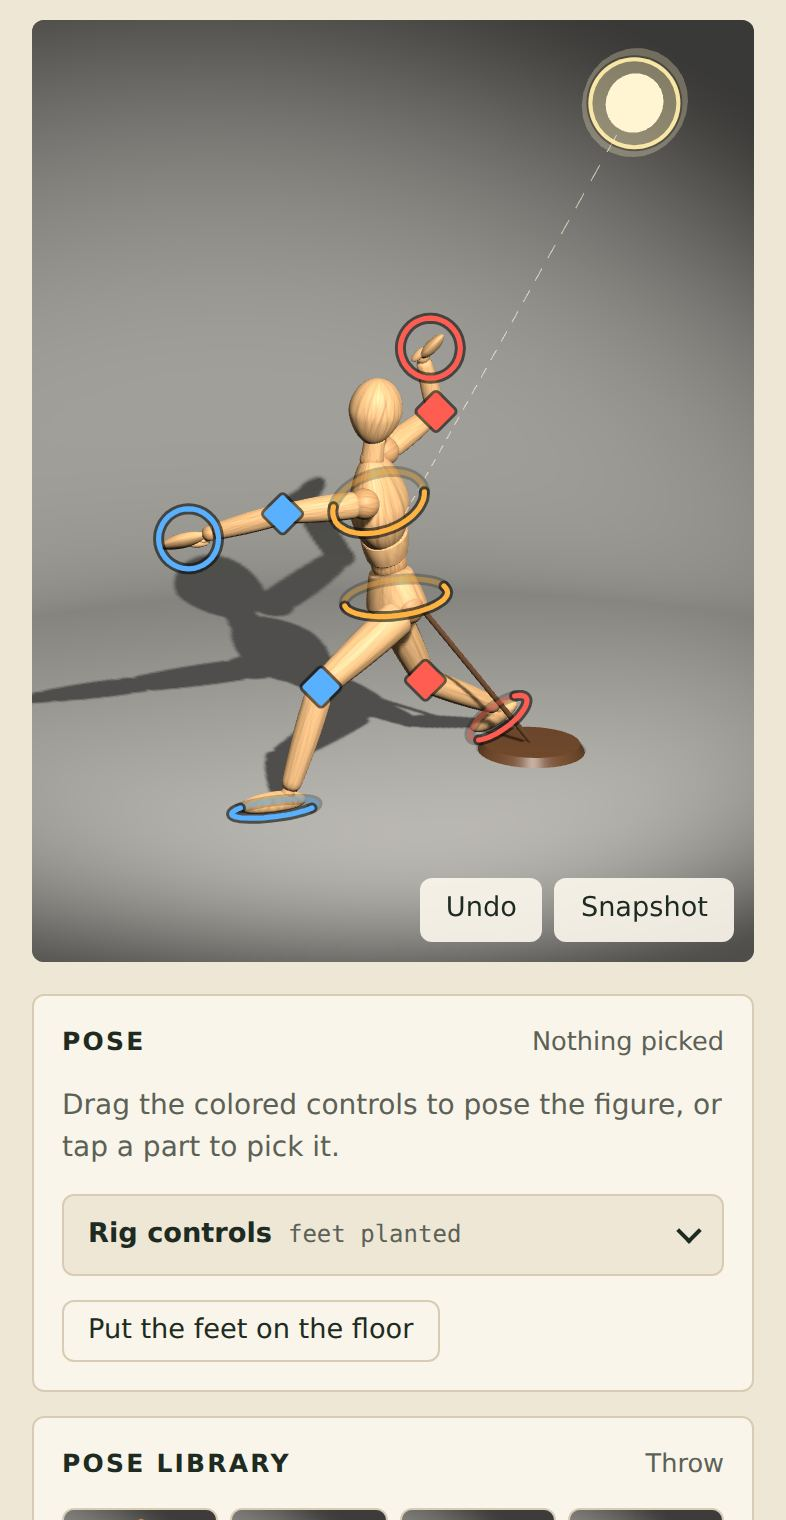
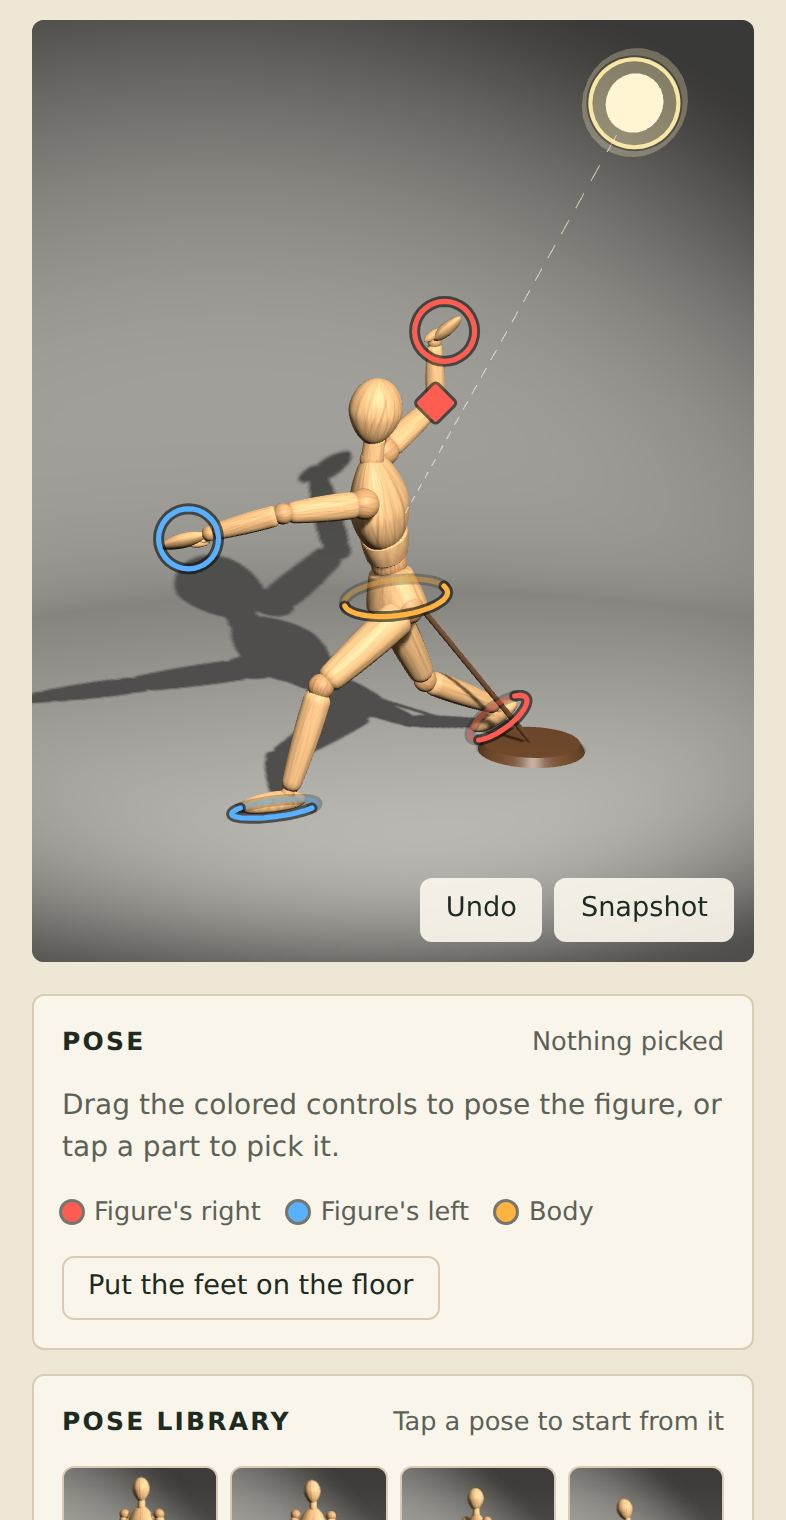
Pose and light: follow the app's Simple / Advanced switch
Simple shows only the hand, foot and hip controls; an elbow or knee
diamond, or the ring around the chest, appears once that arm, leg or the
body is touched and goes when the background is tapped. A picked part has
no arrows but can still be dragged, and the Rig controls, Light settings,
value splits and Show or hide menus are hidden. Advanced shows everything
as before. The app sends the mode to the frame when it loads and whenever
the switch changes; on its own page the tool has a switch of its own. The
guide, its pictures and the README describe both.

Claude-Session: https://claude.ai/code/session_01XVREo3r8Hxw4H8arPAzQN1

diff --git a/pose.html b/pose.html
@@ -147,6 +147,12 @@ dialog p { margin: 8px 0 12px; color: var(--muted); }
 .embed .top { display: none; }
 .embed .app { padding-block: 4px 16px; padding-inline: 0; }
 .embed .stage { height: var(--stage-h, 600px); }
+/* Simple shows only what a beginner needs; Advanced shows every control */
+.simple .adv-only, html:not(.simple) .simple-only { display: none !important; }
+.top-side { display: flex; align-items: center; gap: 10px; }
+.mode-switch { display: inline-flex; gap: 2px; padding: 3px; border: 1px solid var(--line); border-radius: 99px; background: var(--surface); }
+.mode-switch button { appearance: none; border: 0; border-radius: 99px; background: transparent; color: var(--muted); font: 600 0.8rem/1 var(--body); padding: 7px 12px; cursor: pointer; }
+.mode-switch button[aria-pressed="true"] { background: var(--ink); color: var(--ground); }
 </style>
 </head>
 <body>
@@ -157,13 +163,16 @@ dialog p { margin: 8px 0 12px; color: var(--muted); }
       <h1>Pose and Light</h1>
       <p>A wooden drawing figure and one lamp. Pose every limb, move the light, and watch where the light side, the shadow side and the cast shadow fall.</p>
     </div>
-    <span class="badge">Test version</span>
+    <div class="top-side">
+      <span class="mode-switch" role="group" aria-label="Simple or advanced controls"><button type="button" data-mode="simple" aria-pressed="true" title="Just the controls you need">Simple</button><button type="button" data-mode="advanced" aria-pressed="false" title="Every control">Advanced</button></span>
+      <span class="badge">Test version</span>
+    </div>
   </header>
 
   <div class="tool">
     <div class="stage" id="stage">
       <canvas id="view" aria-label="The wooden figure and the lamp. Drag a hand, a foot, the ring around the hips or the ring around the chest to pose the figure. Tap a part of the figure to pick it, then use the arrows to move it. Drag the lamp to move the light, or drag the background to walk around."></canvas>
-      <div class="hint" id="hint"><span>Drag a colored control to pose</span><span>Tap a part for arrows</span><span>Drag the lamp to move the light</span><span>Drag the background to walk around</span></div>
+      <div class="hint" id="hint"><span>Drag a colored control to pose</span><span class="adv-only">Tap a part for arrows</span><span class="simple-only">Tap a part to pick it</span><span>Drag the lamp to move the light</span><span>Drag the background to walk around</span></div>
       <div class="picked" id="picked" hidden></div>
       <svg class="rig" id="rig" aria-hidden="true"></svg>
       <div class="arrows" id="arrows"></div>
@@ -179,14 +188,14 @@ dialog p { margin: 8px 0 12px; color: var(--muted); }
       <section class="card" aria-labelledby="partTitle">
         <div class="card-head"><h2 id="partTitle">Pose</h2><span class="note" id="partName">Nothing picked</span></div>
         <p class="empty" id="partEmpty">Drag the colored controls to pose the figure, or tap a part to pick it.</p>
-        <p class="empty" id="partHow" hidden>Tap the yellow arrows to move it. Hold an arrow to keep it moving. You can also drag the part itself. Left and right are the figure's own.</p>
+        <p class="empty" id="partHow" hidden><span class="adv-only">Tap the yellow arrows to move it. Hold an arrow to keep it moving. You can also drag the part itself.</span><span class="simple-only">Drag it to move it. Advanced adds arrows that move it a little at a time.</span> Left and right are the figure's own.</p>
         <p class="empty" id="partDepth" hidden><b>◉</b> brings it toward you and <b>⊗</b> sends it away from you.</p>
         <div class="row" id="partButtons" hidden>
           <button type="button" class="btn" id="straighten">Straighten</button>
           <button type="button" class="btn" id="mirror">Copy to the other side</button>
         </div>
         <p class="legend"><span><i style="background:#ff5d52"></i>Figure's right</span><span><i style="background:#59b0ff"></i>Figure's left</span><span><i style="background:#ffb340"></i>Body</span></p>
-        <details class="more" id="rigMore">
+        <details class="more adv-only" id="rigMore">
           <summary>Rig controls <span class="sum-note" id="rigSum"></span></summary>
           <div class="more-body">
             <p class="lesson">Drag a hand's circle and the whole arm follows. The diamond at the elbow swings the elbow around while the hand stays put. The feet and the knees work the same way. Drag the ring around the hips to move the body: the legs bend and the feet stay put. The ring around the chest bends the body, and the arms and the head go with it.</p>
@@ -211,7 +220,7 @@ dialog p { margin: 8px 0 12px; color: var(--muted); }
         <div class="card-head"><h2 id="lightTitle">Light</h2><span class="note" id="lightName">Rembrandt</span></div>
         <div class="chips" id="lights"></div>
         <p class="lesson" id="lightLesson"></p>
-        <details class="more" id="lightMore">
+        <details class="more adv-only" id="lightMore">
           <summary>Light settings <span class="sum-note" id="lightSum"></span></summary>
           <div class="more-body">
             <div class="field"><div class="field-head"><label for="lAz">Around the figure</label><output id="lAzOut" for="lAz"></output></div><input type="range" id="lAz" min="-180" max="180" step="1"></div>
@@ -230,14 +239,14 @@ dialog p { margin: 8px 0 12px; color: var(--muted); }
           <input type="radio" name="look" id="lookGray" value="1"><label for="lookGray">Gray</label>
           <input type="radio" name="look" id="lookValues" value="2"><label for="lookValues">Dark, middle, light</label>
         </div>
-        <details class="more" id="splitFields" hidden>
+        <details class="more adv-only" id="splitFields" hidden>
           <summary>Where the values split <span class="sum-note" id="splitSum"></span></summary>
           <div class="more-body">
             <div class="field"><div class="field-head"><label for="t1">Dark / middle split</label><output id="t1Out" for="t1"></output></div><input type="range" id="t1" min="5" max="60" step="1" value="30"></div>
             <div class="field"><div class="field-head"><label for="t2">Middle / light split</label><output id="t2Out" for="t2"></output></div><input type="range" id="t2" min="30" max="95" step="1" value="58"></div>
           </div>
         </details>
-        <details class="more" id="showMore">
+        <details class="more adv-only" id="showMore">
           <summary>Show or hide <span class="sum-note" id="showSum"></span></summary>
           <div class="more-body">
             <label class="check" for="showStand"><input type="checkbox" id="showStand" checked> Show the stand</label>
@@ -309,6 +318,10 @@ dialog p { margin: 8px 0 12px; color: var(--muted); }
   // back (x), then out to the side (z), so a raised arm still twists about itself.
   const ORDER = 'ZXY';
   const clamp = (v, a, b) => Math.min(b, Math.max(a, v));
+  // Simple or Advanced (see "Simple and Advanced" near the end), and in Simple the arm, leg or body
+  // last touched, whose elbow or knee diamond or chest ring shows
+  let simple = true, active = null;
+  const groupOf = (n) => (n === 'root' || n === 'waist' || n === 'neck' ? 'body' : (/^(shoulder|elbow|wrist)/.test(n) ? 'arm' : 'leg') + n.slice(-1));
   const srgb = (hex) => new T.Color(hex).convertSRGBToLinear();
 
   // ---- Renderer, scene, camera ---------------------------------------------------------
@@ -1027,6 +1040,7 @@ dialog p { margin: 8px 0 12px; color: var(--muted); }
   let picked = null;
   function pick(name) {
     picked = name;
+    active = name ? groupOf(name) : null;
     outlines.forEach((o) => o.parent.remove(o));
     outlines = [];
     parts.forEach((m) => {
@@ -1106,7 +1120,7 @@ dialog p { margin: 8px 0 12px; color: var(--muted); }
   function buildArrows() {
     $('arrows').textContent = '';
     arrows = [];
-    if (!picked) return;
+    if (!picked || simple) return;
     const name = picked, spec = SPEC[name];
     spec.axes.forEach((ax) => [1, -1].forEach((dir) => {
       const a = { kind: 'axis', ax, dir, name };
@@ -1725,6 +1739,7 @@ dialog p { margin: 8px 0 12px; color: var(--muted); }
   const SVGNS = 'http://www.w3.org/2000/svg';
   const CTRLS = [];
   function addCtrl(c) {
+    c.group = groupOf(c.pick);
     c.g = document.createElementNS(SVGNS, 'g');
     c.paths = ['under back', 'over back', 'under', 'over'].map((cls) => {
       const el = document.createElementNS(SVGNS, 'path');
@@ -1755,6 +1770,8 @@ dialog p { margin: 8px 0 12px; color: var(--muted); }
     const h = canvas.clientHeight;
     const camDir = camera.getWorldDirection(new T.Vector3());
     CTRLS.forEach((c) => {
+      // Simple: an elbow or knee diamond, or the chest ring, shows only for the arm, leg or body last touched
+      if (simple && (c.kind === 'pole' || c.id === 'torso') && c.group !== active) { c.screen = null; c.g.style.display = 'none'; return; }
       let pts, center;
       const far = [];          // for a ring: which points are on its far side
       if (c.kind === 'ring' || c.kind === 'foot') {
@@ -1838,6 +1855,7 @@ dialog p { margin: 8px 0 12px; color: var(--muted); }
   const planeThrough = (pt) => new T.Plane().setFromNormalAndCoplanarPoint(camera.getWorldDirection(new T.Vector3()), pt);
   const onPlane = (e, plane) => rayAt(e).ray.intersectPlane(plane, new T.Vector3());
   function ctrlStart(c, e) {
+    active = c.group;
     figure.updateMatrixWorld(true);
     const d = { kind: 'ctrl', c, at: { x: e.clientX, y: e.clientY }, moved: false, before: JSON.stringify(pose) };
     const ch = c.chain;
@@ -2152,6 +2170,38 @@ dialog p { margin: 8px 0 12px; color: var(--muted); }
   });
   $('snapClose').addEventListener('click', () => $('snapDialog').close());
 
+  // ---- Simple and Advanced ------------------------------------------------------------------------
+
+  // Simple shows only what a beginner needs: the hand, foot and hip controls (an elbow or knee diamond,
+  // or the ring around the chest, appears once that arm, leg or the body is touched), no arrows, and
+  // the light presets without their sliders and options. Advanced shows every control. Inside Portrait
+  // Value Studio it follows the app's own switch (the app sends it); on its own page it has a switch of
+  // its own, remembered in this browser. Simple is where it starts.
+  const MODE_KEY = 'pose-and-light.mode';
+  const EMBEDDED = document.documentElement.classList.contains('embed');
+  function setMode(mode, keep) {
+    simple = mode !== 'advanced';
+    document.documentElement.classList.toggle('simple', simple);
+    document.querySelectorAll('[data-mode]').forEach((b) => b.setAttribute('aria-pressed', String(b.dataset.mode === (simple ? 'simple' : 'advanced'))));
+    // Simple has no switches for these, so they go back to how they start
+    if (simple) ['showRig', 'plantFeet', 'showStand', 'showLamp'].forEach((id) => { if (!$(id).checked) { $(id).checked = true; $(id).dispatchEvent(new Event('change')); } });
+    if (keep) { try { localStorage.setItem(MODE_KEY, simple ? 'simple' : 'advanced'); } catch (err) { /* not kept */ } }
+    showPart();
+    buildArrows();
+    requestRender();
+  }
+  document.querySelectorAll('[data-mode]').forEach((b) => b.addEventListener('click', () => setMode(b.dataset.mode, true)));
+  if (EMBEDDED) {
+    window.addEventListener('message', (e) => {
+      const d = e.data;
+      if (e.source !== window.parent || !d || d.type !== 'pose-and-light:mode') return;
+      setMode(d.mode === 'advanced' ? 'advanced' : 'simple', false);
+    });
+  }
+  let modeWas = 'simple';
+  if (!EMBEDDED) { try { modeWas = localStorage.getItem(MODE_KEY) || 'simple'; } catch (err) { /* simple */ } }
+  setMode(modeWas, false);
+
   // ---- Start ----------------------------------------------------------------------------------
 
   const saved = restore();
@@ -2170,6 +2220,7 @@ dialog p { margin: 8px 0 12px; color: var(--muted); }
   window.PoseAndLight = { pose, light, view, setPose, pick, POSES, LIGHTS, J, SPEC, render, camera, parts, scene, tipWorld, lamp, stand, applyPose, placeCamera, lightChanged,
     CHAINS, solveChain, keepFeet, plants, worldPos, worldQuat, BASE_Y, ctrlAt, legLow, lowestPoint, LOOK, TARGET, base,
     ctrls: () => CTRLS.map((c) => ({ id: c.id, kind: c.kind, pick: c.pick, center: c.screen && { x: c.screen.center.x, y: c.screen.center.y }, rad: c.rad, pts: c.screen && c.screen.pts.map((q) => ({ x: q.x, y: q.y })) })),
+    mode: () => (simple ? 'simple' : 'advanced'), setMode, active: () => active,
     picked: () => picked, outlines: () => outlines.length, arrows: () => arrows.map((x) => ({ label: x.el.getAttribute('aria-label'), disabled: x.el.disabled, shape: x.shape, turn: x.shape === 'turn', hidden: x.el.hidden })) };
 })();
 </script>

diff --git a/index.html b/index.html
@@ -953,17 +953,17 @@
         <section class="help-part" id="help-pose">
           <div class="help-text">
             <h3>Pose and light</h3>
-            <p>A wooden drawing figure, the kind artists keep on the desk, and one lamp. Pose the figure, move the light, and watch where the light side, the shadow side and the cast shadow fall.</p>
+            <p>A wooden drawing figure, the kind artists keep on the desk, and one lamp. Pose the figure, move the light, and watch where the light side, the shadow side and the cast shadow fall. It follows the <strong>Simple / Advanced</strong> switch at the top: Simple shows just the controls you need, Advanced shows them all.</p>
             <ol>
               <li><strong>Start from a pose.</strong> The <strong>Pose library</strong> shows each pose as a picture: tap one to put the figure in it. <strong>Save this pose</strong> keeps your own poses there too (in this browser), and the × takes one away.</li>
-              <li><strong>Pose it with the colored controls.</strong> Drag a hand's circle and the whole arm follows. The diamond at the elbow swings the elbow around while the hand stays put. Feet and knees work the same way. The ring around the hips moves the body, and the legs bend so the feet stay on the floor. The ring around the chest bends the body, and the arms and head go with it. Red is the figure's right, blue its left.</li>
-              <li><strong>Fine moves:</strong> tap any part to pick it (it gets a yellow outline) and use the yellow arrows. Hold an arrow to keep it moving.</li>
-              <li><strong>Move the light</strong> by dragging the lamp, or pick Front, Rembrandt, Side, Rim, Top or From below. <strong>Light settings</strong> opens the sliders for its height, distance, shadow edge and room light.</li>
+              <li><strong>Pose it with the colored controls.</strong> Drag a hand's circle and the whole arm follows; drag a foot and the whole leg follows. The ring around the hips moves the body, and the legs bend so the feet stay on the floor. Red is the figure's right, blue its left. Once you touch an arm, a diamond appears at its elbow: drag it to swing the elbow around while the hand stays put. A leg gets one at the knee, and moving the hips shows a ring around the chest that bends the body, with the arms and head going along. Tap the background and the extra controls go away. In Advanced they all show all the time.</li>
+              <li><strong>Pick a part</strong> by tapping it (it gets a yellow outline), then drag it. In Advanced, yellow arrows move it a little at a time; hold an arrow to keep it moving.</li>
+              <li><strong>Move the light</strong> by dragging the lamp, or pick Front, Rembrandt, Side, Rim, Top or From below. In Advanced, <strong>Light settings</strong> opens the sliders for its height, distance, shadow edge and room light.</li>
               <li><strong>See it as</strong> Gray or Dark, middle, light to check the values, then <strong>Snapshot</strong> to save a picture to draw from. Drag the background to walk around the figure.</li>
             </ol>
           </div>
           <div class="help-shots">
-            <figure class="phone"><img src="img/help/pose-rig.jpg" alt="The wooden figure in a throwing pose with its colored rig controls: circles at the hands, diamonds at the elbows and knees, ovals under the feet and rings around the hips and chest" loading="lazy"><figcaption>Posing with the rig controls</figcaption></figure>
+            <figure class="phone"><img src="img/help/pose-rig.jpg" alt="The wooden figure in a throwing pose in Simple mode: circles at the hands, ovals under the feet, the ring around the hips, and a diamond at the right elbow after the right hand was moved" loading="lazy"><figcaption>Posing with the rig controls</figcaption></figure>
             <figure class="phone"><img src="img/help/pose-library.jpg" alt="The pose library: eighteen small pictures of the figure in different poses, with Throw picked" loading="lazy"><figcaption>The pose library</figcaption></figure>
             <figure class="phone"><img src="img/help/pose-values.jpg" alt="The same pose seen as dark, middle and light values, with the lamp high to one side" loading="lazy"><figcaption>Dark, middle and light</figcaption></figure>
           </div>

diff --git a/js/app.js b/js/app.js
@@ -2083,6 +2083,13 @@
   function openPose() {
     if (!poseFrame.getAttribute('src')) poseFrame.setAttribute('src', poseFrame.dataset.src);
   }
+  // it follows the app's Simple or Advanced switch: told when it loads and whenever the switch changes
+  function tellPoseMode() {
+    if (!poseFrame.getAttribute('src') || !poseFrame.contentWindow) return;
+    poseFrame.contentWindow.postMessage({ type: 'pose-and-light:mode', mode: document.body.classList.contains('mode-simple') ? 'simple' : 'advanced' }, '*');
+  }
+  poseFrame.addEventListener('load', tellPoseMode);
+  window.addEventListener('studio:mode', tellPoseMode);
   window.addEventListener('message', (e) => {
     const d = e.data;
     if (e.source !== poseFrame.contentWindow || !d || d.type !== 'pose-and-light:height') return;

diff --git a/README.md b/README.md
@@ -75,7 +75,8 @@ Pose and light, under Learning tools, is a wooden drawing figure (the jointed ma
 
 - **Rig controls**, like an animation rig: a circle at each hand moves the wrist and solves the shoulder and elbow (two-bone inverse kinematics, worked out exactly from the triangle, with damped least-squares steps along the joint limits when a limit stops it); a diamond at each elbow swings the elbow around the shoulder-to-hand line with the hand held still (the pole), and does the same for the knees; an oval under each foot moves the leg with the foot keeping its turn on the floor; a ring around the hips moves the body while both legs bend to keep the feet planted (the hips stop where the legs cannot follow, and a heel lifts onto the toes in a deep crouch when the ankle bends no further); a ring around the chest bends the waist, carrying the arms and head. Right is red, left blue, the body amber. Any part can also be tapped to pick it and moved with arrows, joint by joint.
 - **Pose library**: 18 poses (Stand, Weight on one leg, Walk, Run, Wave, Reach, Crouch, Think, Hands on hips, Point, Lunge, Kneel, Sit, Jump, Throw, Kick, Dance, Box), each a button with a picture of the figure in that pose, drawn off screen from the figure itself when the page opens. **Save this pose** keeps up to 12 of your own, with pictures, in this browser.
-- **Light**: drag the lamp, or pick Front, Rembrandt, Side, Rim, Top or From below, each with a short lesson; its sliders fold away under **Light settings**. **See it as** Color, Gray, or Dark, middle and light with adjustable splits. **Snapshot** saves a picture.
+- **Light**: drag the lamp, or pick Front, Rembrandt, Side, Rim, Top or From below, each with a short lesson; its sliders fold away under **Light settings**.
+- **Simple and Advanced**: inside the app the tool follows the app's switch (the app sends it the mode when the frame loads and whenever it changes); on its own page it has a switch of its own, remembered in that browser. Simple shows only the hand, foot and hip controls; an elbow or knee diamond, or the chest ring, appears once that arm, leg or the body is touched and goes when the background is tapped. A picked part has no arrows (it can still be dragged), and the Rig controls, Light settings, value splits and Show or hide menus are hidden (their options go back to their defaults). Advanced shows every control. **See it as** Color, Gray, or Dark, middle and light with adjustable splits. **Snapshot** saves a picture.
 
 ### Studio
 
